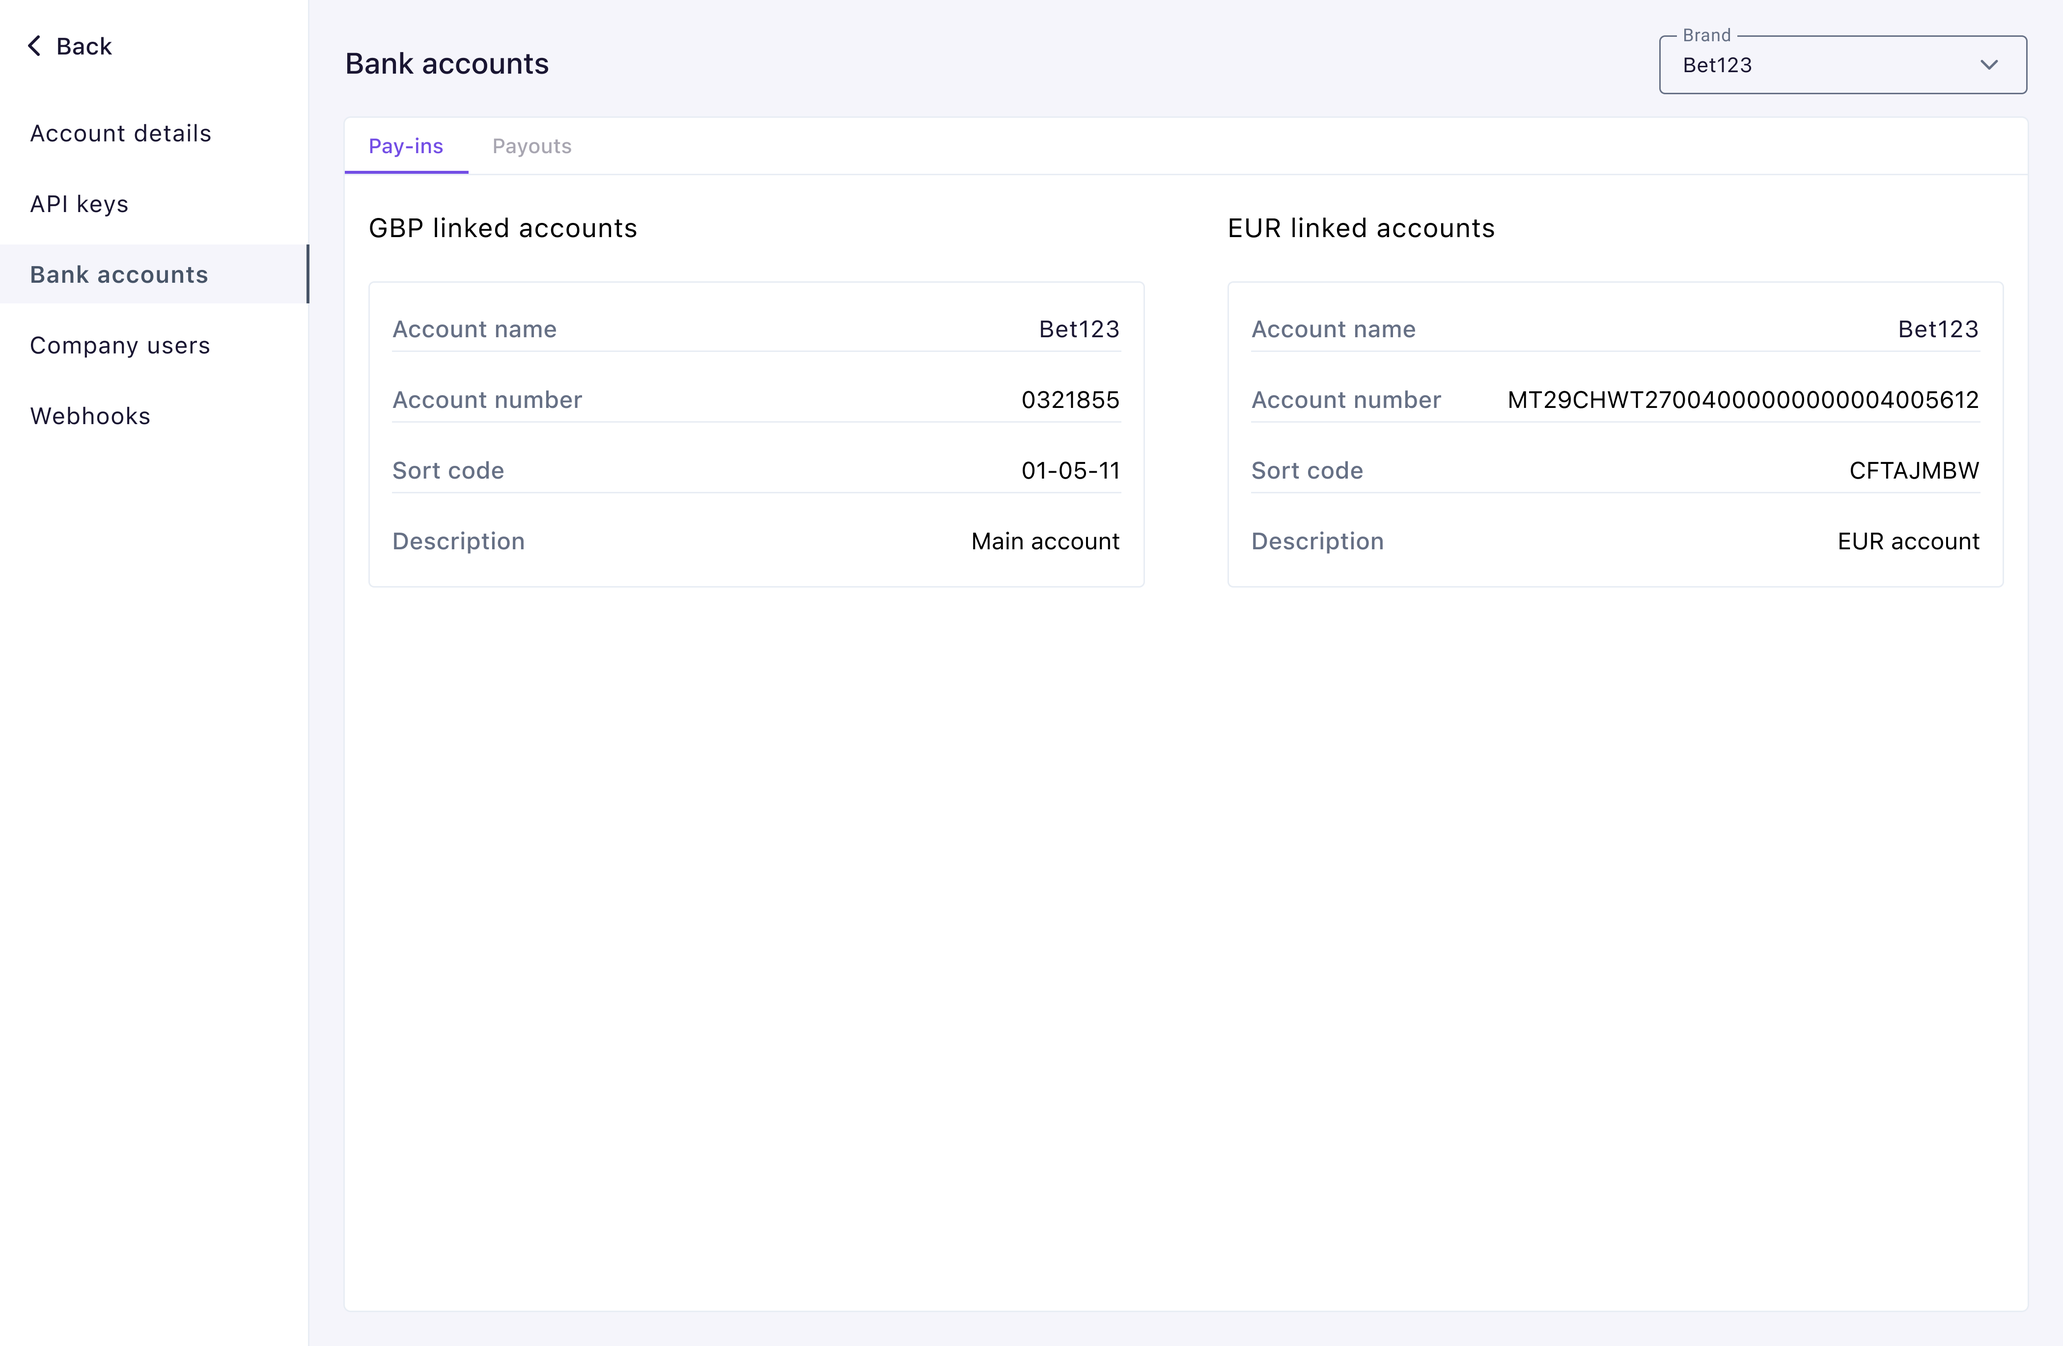
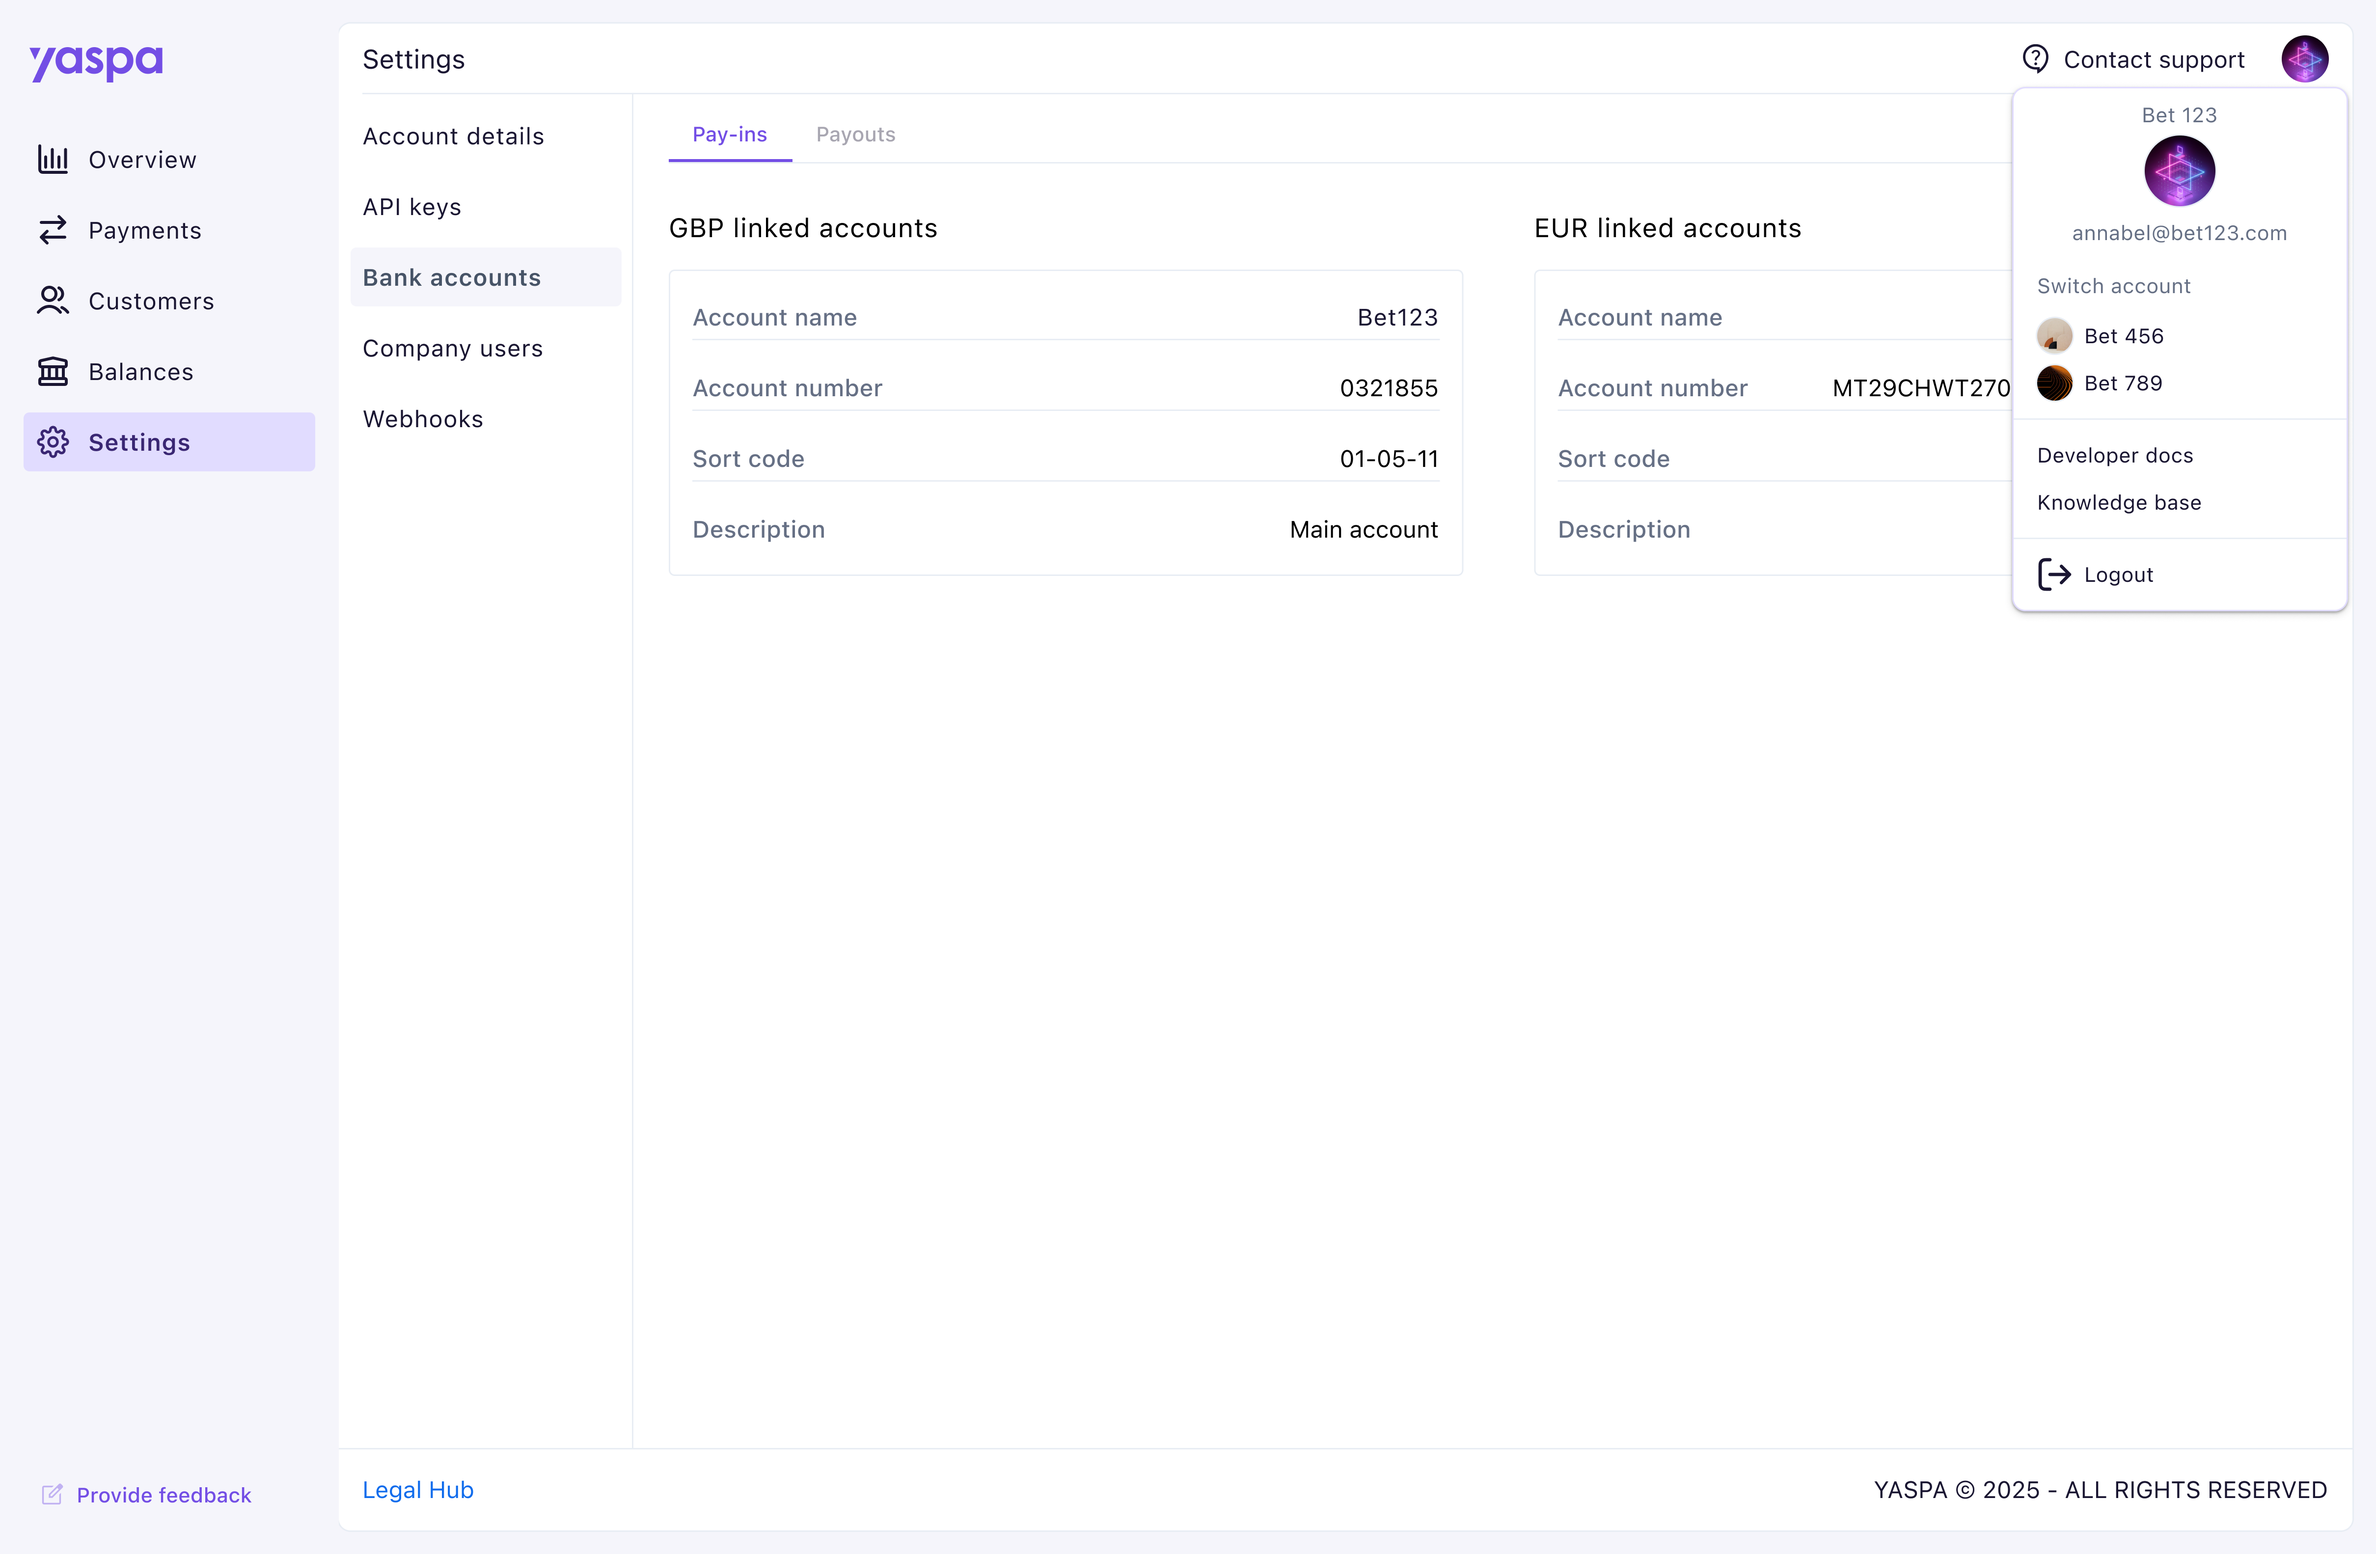
Update admin dashboard project

diff --git a/_site/2025/10/28/admin-dashboard.html b/_site/2025/10/28/admin-dashboard.html
@@ -132,20 +132,24 @@
 Login screen updated in line with our website and brand refresh.</p>
 
 <p><img src="/assets/img/admin-dashboard/final-design-2.png" alt="" />
-The main payments screen, with improved filters and page layout.</p>
+The payment pages were previously divided into two separate menu sections, but as these products are so closely related, we rearranged them into tabs to connect them and save on space. We then improved the search and filter functionality above the payments table, which was the most requested change in this project.</p>
 
 <p><img src="/assets/img/admin-dashboard/final-design-3.png" alt="" />
-Transaction details were moved to an overlay in the same view, as customers had noted it was a nuisance to be taken away from the transactions table and constantly navigate back.</p>
+Each row on the payments table contains information about a single transaction. Further details then show on an overlay when a row is clicked. We changed the layout of this detailed information from a whole page view, which took you away form the table, to an overlay, which keeps the user in the same space and allows them to return to the table more easily. We focused on improving readability of this section with an underline connecting labels with the content.</p>
 
 <p><img src="/assets/img/admin-dashboard/final-design-4.png" alt="" />
-A new customer area was created, which will be used to highlight potential fraudulent activity in future developments.</p>
+The old customers section was reported to not be very meaningful, with basic details failing to pull through. Working closely with the product manager, we planned out more meaningful information about customers, including bank account information and overview statistics. We then checked this was possible with the backend team before finalising the designs. This section will be developed further in the future to display in-depth insights on customer’s gambling behaviour.</p>
 
-<p><img src="/assets/img/admin-dashboard/final-design-5.png" alt="" />
-<img src="/assets/img/admin-dashboard/final-design-6.png" alt="" />
-We applied a new layout for the settings area.</p>
+<p><img src="/assets/img/admin-dashboard/final-design-5.png" alt="" /></p>
+
+<p><img src="/assets/img/admin-dashboard/final-design-6.png" alt="" />
+The settings area was improved with a vertical menu, replacing a horizontal tab approach that was filling most of the screen. During research we learnt that users often need to contact our support team, particularly in the beginning stages of setting up their dashboard, so we made this feature more prominent in the toolbar. Other less used features, including developer documentation and knowledge base, were kept within the user menu.</p>
 
 <p><img src="/assets/img/admin-dashboard/final-design-7.png" alt="" />
-<img src="/assets/img/admin-dashboard/final-design-8.png" alt="" /></p>
+One simple but impactful improvement we brought in this redesign was feedback. When assessing the state of the previous dashboard we realised that many actions were process with little or no feedback, resulting in confusion or multiple clicks waiting for a change. Any actions that resulted in a change would now include visible feedback on the screen, including errors to meaningfully guide users.</p>
+
+<p><img src="/assets/img/admin-dashboard/final-design-8.png" alt="" />
+We included the option to have a collapsed side panel in the redesign, to give users more space to see their information. This has been reported as particularly useful on data heavy pages, including those with a table and the webhooks display.</p>
 
 <h3 id="testing">TESTING</h3>
 <p>As we were redesigning an existing dashboard, we were carrying over most of the existing functionality. Our aim with testing was therefore primarily internal, to ensure this functionality had been preserved. A challenge we came up against here though was a lack of documentation for the existing functionality. We worked closely with our business analyst to identify a list of user scenarios which we could then check, which we did as a team. This massively improved our process for the future.</p>

diff --git a/_posts/2025-10-28-admin-dashboard.md b/_posts/2025-10-28-admin-dashboard.md
@@ -79,20 +79,24 @@ After collecting relevant feedback from internal teams, we submitted the final d
 Login screen updated in line with our website and brand refresh.
 
 ![]({{ site.baseurl }}/assets/img/admin-dashboard/final-design-2.png)
-The main payments screen, with improved filters and page layout. 
+The payment pages were previously divided into two separate menu sections, but as these products are so closely related, we rearranged them into tabs to connect them and save on space. We then improved the search and filter functionality above the payments table, which was the most requested change in this project.
 
 ![]({{ site.baseurl }}/assets/img/admin-dashboard/final-design-3.png)
-Transaction details were moved to an overlay in the same view, as customers had noted it was a nuisance to be taken away from the transactions table and constantly navigate back.
+Each row on the payments table contains information about a single transaction. Further details then show on an overlay when a row is clicked. We changed the layout of this detailed information from a whole page view, which took you away form the table, to an overlay, which keeps the user in the same space and allows them to return to the table more easily. We focused on improving readability of this section with an underline connecting labels with the content.
 
 ![]({{ site.baseurl }}/assets/img/admin-dashboard/final-design-4.png)
-A new customer area was created, which will be used to highlight potential fraudulent activity in future developments.
+The old customers section was reported to not be very meaningful, with basic details failing to pull through. Working closely with the product manager, we planned out more meaningful information about customers, including bank account information and overview statistics. We then checked this was possible with the backend team before finalising the designs. This section will be developed further in the future to display in-depth insights on customer’s gambling behaviour.
 
 ![]({{ site.baseurl }}/assets/img/admin-dashboard/final-design-5.png)
+
 ![]({{ site.baseurl }}/assets/img/admin-dashboard/final-design-6.png)
-We applied a new layout for the settings area.
+The settings area was improved with a vertical menu, replacing a horizontal tab approach that was filling most of the screen. During research we learnt that users often need to contact our support team, particularly in the beginning stages of setting up their dashboard, so we made this feature more prominent in the toolbar. Other less used features, including developer documentation and knowledge base, were kept within the user menu.
 
 ![]({{ site.baseurl }}/assets/img/admin-dashboard/final-design-7.png)
+One simple but impactful improvement we brought in this redesign was feedback. When assessing the state of the previous dashboard we realised that many actions were process with little or no feedback, resulting in confusion or multiple clicks waiting for a change. Any actions that resulted in a change would now include visible feedback on the screen, including errors to meaningfully guide users.
+
 ![]({{ site.baseurl }}/assets/img/admin-dashboard/final-design-8.png)
+We included the option to have a collapsed side panel in the redesign, to give users more space to see their information. This has been reported as particularly useful on data heavy pages, including those with a table and the webhooks display.
 
 
 ### TESTING
